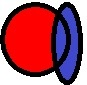
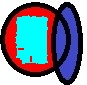
ajuste preenchimentoTela

Changed region(s): [[0.1609, 0.1647, 0.5747, 0.7765]]

diff --git a/computacaoGrafica/src/telas/PreechimentoJFrame.java b/computacaoGrafica/src/telas/PreechimentoJFrame.java
@@ -1,11 +1,15 @@
 package telas;
 
 import java.awt.BorderLayout;
-import java.awt.Dimension;
+import java.awt.Color;
 import java.awt.EventQueue;
+import java.awt.event.MouseAdapter;
+import java.awt.event.MouseEvent;
 import java.awt.image.BufferedImage;
-import java.awt.image.DataBufferByte;
+import java.io.File;
+import java.io.IOException;
 
+import javax.imageio.ImageIO;
 import javax.swing.ImageIcon;
 import javax.swing.JFrame;
 import javax.swing.JLabel;
@@ -13,17 +17,16 @@ import javax.swing.SwingConstants;
 
 import org.opencv.core.Core;
 import org.opencv.core.Mat;
-import org.opencv.core.Size;
 import org.opencv.imgcodecs.Imgcodecs;
-import org.opencv.imgproc.Imgproc;
 
 import computacaoGrafica.Pixel;
 
-import java.awt.event.MouseAdapter;
-import java.awt.event.MouseEvent;
-import java.awt.Color;
+public class PreechimentoJFrame extends JFrame {
 
-public class Preenchimento extends JFrame {
+	/**
+	 * 
+	 */
+	private static final long serialVersionUID = 1L;
 
 	/**
 	 * Launch the application.
@@ -33,7 +36,7 @@ public class Preenchimento extends JFrame {
 		EventQueue.invokeLater(new Runnable() {
 			public void run() {
 				try {
-					Preenchimento frame = new Preenchimento();	
+					PreechimentoJFrame frame = new PreechimentoJFrame();	
 					frame.setVisible(true);
 				} catch (Exception e) {
 					e.printStackTrace();
@@ -45,20 +48,19 @@ public class Preenchimento extends JFrame {
 	/**
 	 * Create the frame.
 	 */
-	public Preenchimento() {
+	public PreechimentoJFrame() {
 		getContentPane().setForeground(new Color(0, 0, 0));
 		setDefaultCloseOperation(JFrame.EXIT_ON_CLOSE);
-		setBounds(100, 100, 800, 600);
+		setBounds(100, 100, 450, 300);
 		setVisible(true);
 		
 		JLabel lblImage = new JLabel("");
 		lblImage.setOpaque(true);
 		lblImage.setBackground(new Color(255, 255, 255));
-		lblImage.setPreferredSize(new Dimension(800,600));
 		lblImage.setVisible(true);
 		Mat imagem = new Mat();
-		String imagemParcial="C:\\Users\\1531454\\git\\computacaoGrafica\\computacaoGrafica\\src\\assets\\imagemParcial.jpg";
-		carregarImagem(lblImage,imagem,"C:\\Users\\1531454\\git\\computacaoGrafica\\computacaoGrafica\\src\\assets\\teste.jpg",imagemParcial);
+		String imagemParcial="C:\\Users\\nao-t\\git\\computacaoGrafica\\computacaoGrafica\\src\\assets\\imagemParcial.png";
+		carregarImagem(lblImage,imagem,"C:\\Users\\nao-t\\git\\computacaoGrafica\\computacaoGrafica\\src\\assets\\preenchimentoClick.png",imagemParcial);
 
 		lblImage.addMouseListener(new MouseAdapter() {
 			@Override
@@ -67,11 +69,20 @@ public class Preenchimento extends JFrame {
 				
 				int x,y;
 				x = e.getX();
-				y = e.getY();
+				y = e.getY() - 10;
 				
 				computacaoGrafica.Preenchimento.preenchimento4vizinhos(imagemRefresh, new Pixel(imagemRefresh.get(x, y), x, y), new double[] {255,255,0});
 				Imgcodecs.imwrite(imagemParcial,imagemRefresh);
-				lblImage.setIcon(new ImageIcon(imagemParcial));
+				
+				BufferedImage img = null;
+				try {
+					img = ImageIO.read(new File(imagemParcial));
+				} catch (IOException e1) {
+					// TODO Auto-generated catch block
+					e1.printStackTrace();
+				}
+				ImageIcon icon = new ImageIcon(img);
+				lblImage.setIcon(icon);
 			}
 		});
 		getContentPane().add(lblImage, BorderLayout.CENTER);
@@ -81,30 +92,31 @@ public class Preenchimento extends JFrame {
 	private void carregarImagem(JLabel lblImage,Mat imagem,String caminhoImagem,String imagemParcial) {
 		imagem = Imgcodecs.imread(caminhoImagem);
 		
-		lblImage.setHorizontalAlignment(SwingConstants.CENTER);
-		lblImage.setVerticalAlignment(SwingConstants.CENTER);
+		lblImage.setHorizontalAlignment(SwingConstants.LEFT);
+		lblImage.setVerticalAlignment(SwingConstants.TOP);
 			    
 //	    BufferedImage img = mat2Img(imagem);
 		Mat resizeImage = imagem.clone();
-	    if(imagem.width() > 800 || imagem.height()>600) {
-	    	
-	    	double novaLargura = 800,novaAltura = 600;
-	    	if(imagem.width() > imagem.height()) {
-	    		novaAltura = imagem.height() * 800 / imagem.width();
-	    	}else {
-	    		novaLargura = imagem.width() * 600 / imagem.height();
-	    	}
-	 	    Size scaleSize = new Size(novaLargura,novaAltura);
-	 	    Imgproc.resize(imagem, resizeImage, scaleSize);
-	 	    
-//	 	    img = mat2Img(resizeImage);
-	    }
+//	    if(imagem.width() > 800 || imagem.height()>600) {
+//	    	
+//	    	double novaLargura = 800,novaAltura = 600;
+//	    	if(imagem.width() > imagem.height()) {
+//	    		novaAltura = imagem.height() * 800 / imagem.width();
+//	    	}else {
+//	    		novaLargura = imagem.width() * 600 / imagem.height();
+//	    	}
+//	 	    Size scaleSize = new Size(novaLargura,novaAltura);
+//	 	    Imgproc.resize(imagem, resizeImage, scaleSize);
+//	 	    
+////	 	    img = mat2Img(resizeImage);
+//	    }
 
  	    Imgcodecs.imwrite(imagemParcial, resizeImage);
 	    lblImage.setIcon(new ImageIcon(imagemParcial));
 	}
 	
 	//Mat to BufferedImage
+	@SuppressWarnings("unused")
 	private static BufferedImage mat2Img(Mat in)
     {
         BufferedImage out;

diff --git a/computacaoGrafica/src/telas/PreenchimentoTela.java b/computacaoGrafica/src/telas/PreenchimentoTela.java
@@ -25,9 +25,9 @@ public class PreenchimentoTela {
 		JFrame preenchimento = new JFrame();
 		JLabel lblImage = new JLabel();
 		
-		String imagemParcial="C:\\Users\\1531454\\git\\computacaoGrafica\\computacaoGrafica\\src\\assets\\imagemParcial.jpg";
-		Mat imagem = Imgcodecs.imread("C:\\Users\\1531454\\git\\computacaoGrafica\\computacaoGrafica\\src\\assets\\teste.jpg");
-		BufferedImage img = ImageIO.read(new File("C:\\Users\\1531454\\git\\computacaoGrafica\\computacaoGrafica\\src\\assets\\teste.jpg"));
+		String imagemParcial="C:\\Users\\nao-t\\git\\computacaoGrafica\\computacaoGrafica\\src\\assets\\imagemParcial.jpg";
+		Mat imagem = Imgcodecs.imread("C:\\Users\\nao-t\\git\\computacaoGrafica\\computacaoGrafica\\src\\assets\\rgb.jpg");
+		BufferedImage img = ImageIO.read(new File("C:\\Users\\nao-t\\git\\computacaoGrafica\\computacaoGrafica\\src\\assets\\rgb.jpg"));
 		lblImage.setSize(img.getWidth(null),img.getHeight(null));
 		
 		Mat resizeImage = imagem.clone();
